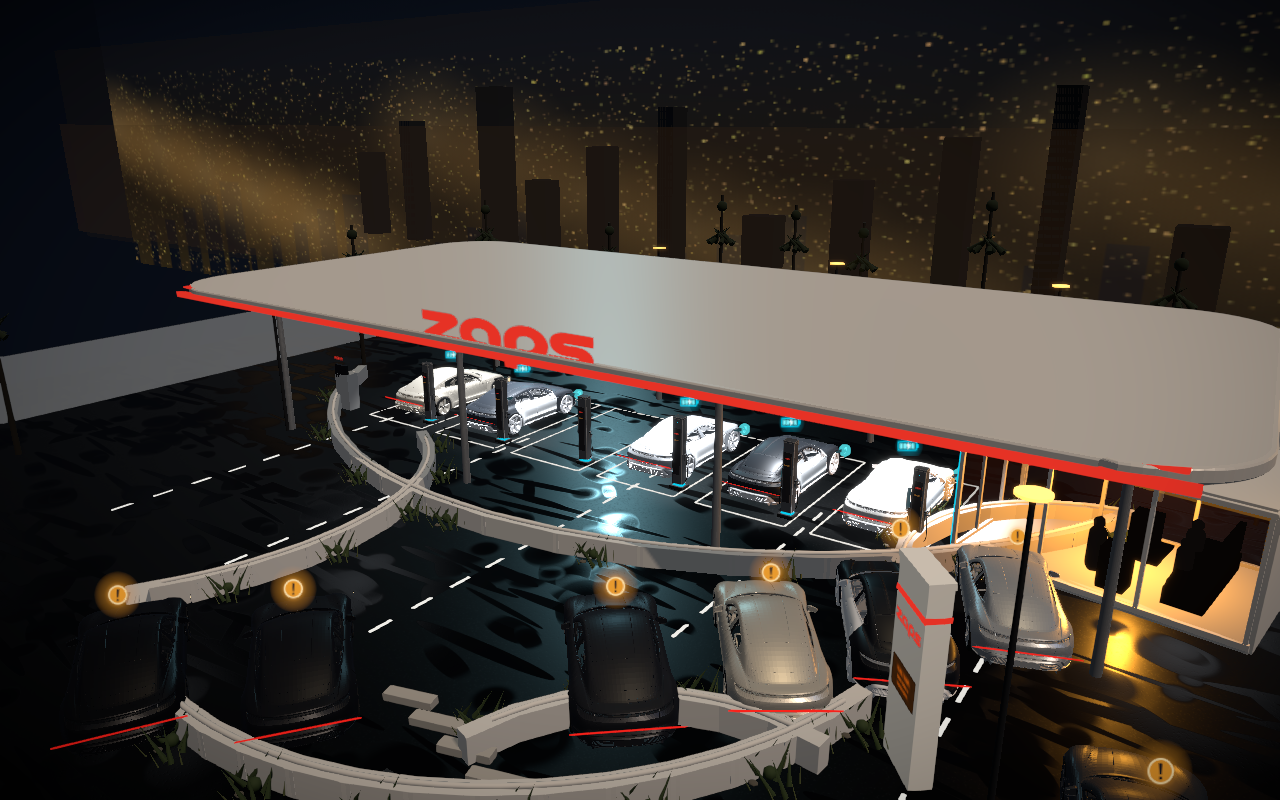
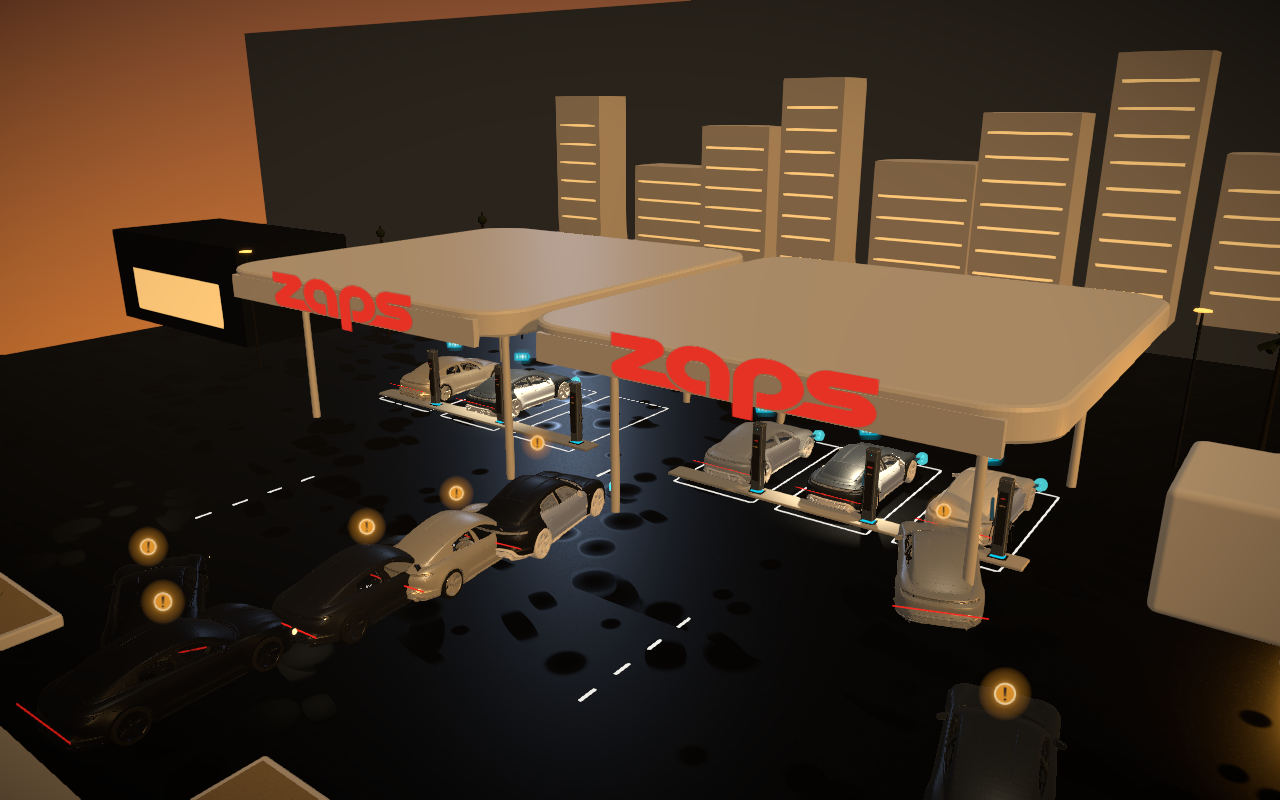
tune: larger fascia marks, street-edge beds, dusk cameras
Push official Drive red wordmarks proud of each canopy face, move
startNight behind the desert planters, and recapture wide / rear /
start / fascia stills.

diff --git a/src/world/station.ts b/src/world/station.ts
@@ -267,9 +267,9 @@ function addCanopyAt(root: THREE.Group, cx: number, cz: number, w: number, d: nu
   soffit.receiveShadow = true;
   root.add(soffit);
 
-  const fasciaZ = cz - d * 0.5 + 0.08;
-  const fascia = new THREE.Mesh(new THREE.BoxGeometry(w - 1.6, 0.52, 0.16), shell);
-  fascia.position.set(cx, y + 0.02, fasciaZ);
+  const fasciaZ = cz - d * 0.5 - 0.1;
+  const fascia = new THREE.Mesh(new THREE.BoxGeometry(w - 1.35, 0.78, 0.2), shell);
+  fascia.position.set(cx, y + 0.06, fasciaZ);
   fascia.castShadow = true;
   fascia.userData.canopyFascia = true;
   root.add(fascia);
@@ -332,7 +332,7 @@ function addPavilion(root: THREE.Group): THREE.Box3 {
   const g = new THREE.Group();
   g.position.set(PAVILION.x, 0, PAVILION.z);
   g.rotation.y = PAVILION.yaw;
-  const wall = mat(0xf3eee4, { roughness: 0.48, metalness: 0.05, envMapIntensity: 0.32 });
+  const wall = mat(0xf6f1e6, { roughness: 0.46, metalness: 0.05, envMapIntensity: 0.34, emissive: 0x3a3428, emissiveIntensity: 0.08 });
   const glass = new THREE.MeshPhysicalMaterial({
     color: 0x3a2818,
     roughness: 0.1,
@@ -471,8 +471,8 @@ function gravelMap(): THREE.CanvasTexture {
 
 function addDesertBed(root: THREE.Group, x: number, z: number, w: number, d: number): void {
   const curb = mat(0xeee8dc, { roughness: 0.55, metalness: 0.04 });
-  const bed = new THREE.Mesh(new RoundedBoxGeometry(w, 0.22, d, 2, 0.06), curb);
-  bed.position.set(x, 0.11, z);
+  const bed = new THREE.Mesh(new RoundedBoxGeometry(w, 0.32, d, 2, 0.06), curb);
+  bed.position.set(x, 0.16, z);
   bed.receiveShadow = true;
   const gravel = new THREE.Mesh(
     new THREE.PlaneGeometry(w - 0.28, d - 0.28),
@@ -484,7 +484,7 @@ function addDesertBed(root: THREE.Group, x: number, z: number, w: number, d: num
     }),
   );
   gravel.rotation.x = -Math.PI / 2;
-  gravel.position.set(x, 0.23, z);
+  gravel.position.set(x, 0.33, z);
   root.add(bed, gravel);
   const cols = 3;
   const rows = 2;
@@ -498,8 +498,8 @@ function addDesertBed(root: THREE.Group, x: number, z: number, w: number, d: num
 }
 
 function addPlanters(root: THREE.Group): void {
-  addDesertBed(root, -8.4, -15.4, 8.6, 2.35);
-  addDesertBed(root, 8.4, -15.4, 8.6, 2.35);
+  addDesertBed(root, -8.6, -15.2, 9.2, 2.6);
+  addDesertBed(root, 8.6, -15.2, 9.2, 2.6);
   const walk = mat(0xc8c2b4, { roughness: 0.7 });
   const sidewalk = box(36, 0.08, 1.8, walk, 0, 0.03, -17.2);
   sidewalk.castShadow = false;

diff --git a/src/world/layout.ts b/src/world/layout.ts
@@ -33,13 +33,13 @@ export const CANOPIES = [
 
 /** Eye-level: street planters, twin cream canopies, lounge left. */
 export const START_SHOT = {
-  x: -3.8,
-  z: -12.6,
+  x: -6.2,
+  z: -18.6,
   eyeY: 1.56,
-  yaw: 0.08,
-  pitch: 0.08,
-  lookAt: { x: -2.2, y: 2.35, z: 3.4 },
-  fov: 60,
+  yaw: 0.12,
+  pitch: 0.06,
+  lookAt: { x: -4.4, y: 2.55, z: 2.6 },
+  fov: 58,
 } as const;
 
 /** Elevated 3/4: both canopies, lounge, desert beds, dusk neighbors. */
@@ -63,10 +63,10 @@ export const REAR_SHOT = {
 /** Close fascia: official red Zaps on the left canopy. */
 export const CANOPY_SHOT = {
   x: -7.2,
-  z: -7.6,
-  eyeY: 1.72,
+  z: -11.4,
+  eyeY: 2.35,
   yaw: 0,
-  pitch: 0.42,
-  lookAt: { x: -7.2, y: 5.08, z: -3.28 },
-  fov: 42,
+  pitch: 0.22,
+  lookAt: { x: -7.2, y: 5.22, z: -3.5 },
+  fov: 40,
 } as const;

diff --git a/src/world/skyline.ts b/src/world/skyline.ts
@@ -7,11 +7,11 @@ function duskSky(): THREE.CanvasTexture {
   c.height = 256;
   const ctx = c.getContext("2d")!;
   const g = ctx.createLinearGradient(0, 0, 0, 256);
-  g.addColorStop(0, "#1a2438");
-  g.addColorStop(0.42, "#4a3a38");
-  g.addColorStop(0.68, "#c47838");
-  g.addColorStop(0.86, "#e8a050");
-  g.addColorStop(1, "#f0c888");
+  g.addColorStop(0, "#243048");
+  g.addColorStop(0.36, "#6a4038");
+  g.addColorStop(0.58, "#d47830");
+  g.addColorStop(0.78, "#f0a848");
+  g.addColorStop(1, "#ffd090");
   ctx.fillStyle = g;
   ctx.fillRect(0, 0, 16, 256);
   const tex = new THREE.CanvasTexture(c);

diff --git a/src/world/branding.ts b/src/world/branding.ts
@@ -78,9 +78,9 @@ export async function addBrandSignage(root: THREE.Group): Promise<void> {
   const red = await loadBrandTexture("zaps-wordmark-only-red.svg");
 
   for (const canopy of CANOPIES) {
-    const fasciaZ = canopy.z - canopy.d * 0.5 + 0.02;
-    const mark = signPlate(3.85, 0.86, red);
-    mark.position.set(canopy.x, canopy.y + 0.08, fasciaZ);
+    const fasciaZ = canopy.z - canopy.d * 0.5 - 0.22;
+    const mark = signPlate(7.1, 1.58, red);
+    mark.position.set(canopy.x, canopy.y + 0.1, fasciaZ);
     mark.rotation.y = Math.PI;
     root.add(mark);
   }

diff --git a/src/main.ts b/src/main.ts
@@ -38,8 +38,8 @@ const pips = document.querySelectorAll("#pips i");
 const renderer = createRenderer(canvas);
 
 const scene = new THREE.Scene();
-scene.background = new THREE.Color(0x1c1610);
-scene.fog = new THREE.Fog(0x1c1610, 46, 128);
+scene.background = new THREE.Color(0x3a2818);
+scene.fog = new THREE.Fog(0x3a2818, 58, 150);
 scene.add(new THREE.AmbientLight(0xffe2c4, 0.3));
 const fill = new THREE.DirectionalLight(0xffc070, 1.18);
 fill.position.set(-22, 11, -9);
